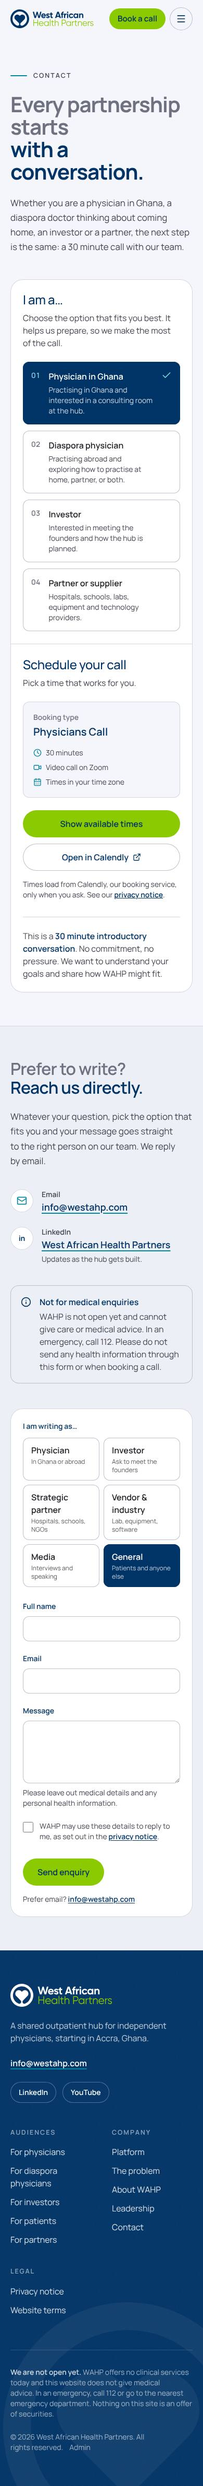
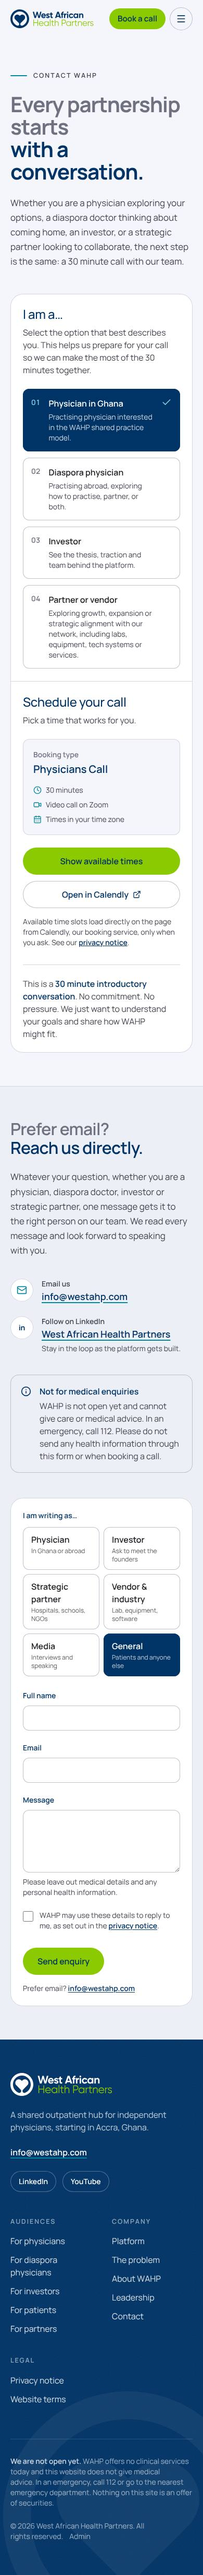
Copy: finish the older build's wording pass (75.7% measured)
Targeted edits on Home, Physicians, Diaspora, Investors and the booking
card so the eight main pages reach about 75% of their words from the
older build (26% before), measured sentence by sentence. Planned
services still plans, emigration line kept as WAHP's view, banned
claims still out. Docs record the measure, what was left out and three
lines for the owner to check. Screenshots refreshed; layout unchanged.

Claude-Session: https://claude.ai/code/session_01Gg6TP4sXwQchVWe3LbXuH5

Changed region(s): [[0.0, 0.0, 1.0, 0.9945]]

diff --git a/src/app/(site)/physicians/page.tsx b/src/app/(site)/physicians/page.tsx
@@ -35,7 +35,7 @@ const offer = [
   },
   {
     title: "Your practice. Your patients. Your future.",
-    body: "Your patients stay your patients and you make the clinical decisions. Commit less capital to setup, spend less time managing operations and keep more of your attention on practice growth.",
+    body: "Your patients stay your patients and you make the clinical decisions. Commit less capital to setup. Spend less time managing operations. Keep more of your attention on patients and practice growth.",
   },
 ];
 
@@ -174,9 +174,7 @@ export default function PhysiciansPage() {
             {approvedClaim("traction-lois") && (
               <div className="reveal mt-10 rounded-card bg-white p-6 ring-1 ring-inset ring-smoke">
                 <p className="text-headline font-semibold text-navy">20</p>
-                <p className="mt-1 text-arsenic">
-                  physicians have already signed letters of intent to practise at the first WAHP hub in Accra.
-                </p>
+                <p className="mt-1 text-arsenic">physicians have already signed letters of intent with WAHP.</p>
               </div>
             )}
           </div>

diff --git a/src/app/(site)/page.tsx b/src/app/(site)/page.tsx
@@ -266,9 +266,9 @@ export default function HomePage() {
             <Eyebrow>The patient experience</Eyebrow>
             <SplitHeading id="lobby-heading" lead="One building." rest="Complete care." className="mt-4" />
             <p className="mt-4 text-arsenic">
-              A patient should not have to carry the burden of a fragmented healthcare system. This is a concept of the
-              reception we are planning in Accra, where consultation, diagnostics and follow up are designed to come
-              together in one connected environment.
+              A patient should not have to carry the burden of a fragmented healthcare system. At WAHP, consultation,
+              diagnostics and follow up are designed to come together in one connected environment. This footage is a
+              concept of the reception we are planning in Accra.
             </p>
             <div className="mt-7">
               <ButtonLink href="/platform" arrow>

diff --git a/src/app/(site)/diaspora-physicians/page.tsx b/src/app/(site)/diaspora-physicians/page.tsx
@@ -132,9 +132,7 @@ export default function DiasporaPhysiciansPage() {
             {approvedClaim("traction-lois") && (
               <div className="reveal mt-10 rounded-card bg-white p-6 ring-1 ring-inset ring-smoke">
                 <p className="text-headline font-semibold text-navy">20</p>
-                <p className="mt-1 text-arsenic">
-                  physicians have signed letters of intent to practise at the first WAHP hub in Accra.
-                </p>
+                <p className="mt-1 text-arsenic">physicians have signed letters of intent to practise at WAHP.</p>
               </div>
             )}
           </div>

diff --git a/src/app/(site)/investors/page.tsx b/src/app/(site)/investors/page.tsx
@@ -305,8 +305,7 @@ export default function InvestorsPage() {
 
       <BookCallSection call="investor" lead="Connect with our team." rest="Book a 30 minute call." tone="white">
         <p>
-          See the thesis, traction and team, and how WAHP plans to validate first and scale with discipline. Prefer to
-          write?{" "}
+          See the thesis, traction and team behind the platform. Prefer to write?{" "}
           <a
             href="#introduction"
             className="font-semibold text-navy underline decoration-teal decoration-2 underline-offset-4"

diff --git a/src/components/sections/audience-paths.tsx b/src/components/sections/audience-paths.tsx
@@ -43,7 +43,7 @@ const paths: {
   {
     title: "Partners",
     image: "partnersPresentation",
-    body: "Hospitals, labs, suppliers and health organisations exploring growth, expansion or strategic alignment with WAHP.",
+    body: "Exploring growth, expansion or strategic alignment with our network: hospitals, labs, suppliers and health organisations.",
     cta: "Discuss partnership",
     href: "/contact?type=partnership#schedule",
     accent: { bar: "bg-teal", mark: "text-teal" },

diff --git a/src/components/forms/call-booking.tsx b/src/components/forms/call-booking.tsx
@@ -95,7 +95,8 @@ export function BookingPanel({
           </a>
         ) : (
           <>
-            Available time slots load from Calendly, our booking service, only when you ask. See our{" "}
+            Available time slots load directly on the page from Calendly, our booking service, only when you ask. See
+            our{" "}
             <Link href="/privacy#booking" className="font-semibold text-navy underline">
               privacy notice
             </Link>

diff --git a/src/content/site.ts b/src/content/site.ts
@@ -52,7 +52,7 @@ export const callTypes: CallType[] = approvedClaim("scheduling-links")
       {
         id: "investor",
         label: "Investor",
-        hint: "Exploring the thesis, traction, and team behind WAHP.",
+        hint: "See the thesis, traction and team behind the platform.",
         event: "Investors Call",
         href: "https://calendly.com/westahp-info/investor-call",
       },

diff --git a/docs/IMPLEMENTATION_LOG.md b/docs/IMPLEMENTATION_LOG.md
@@ -337,3 +337,11 @@ Both redrawn as inline SVG after the owner's mockups, so they stay sharp, keep t
 
 - At the owner's request the "Who may invest" banner is the photo of a young man and woman with a laptop and coffee (`team-laptop-celebration.webp`, the photo that sat above the introduction before), instead of the older build's lobby banner, which is removed from the repo. 16:9 on phones and 2:1 from tablet up, at most 896px wide, framed to keep both faces and the coffee cup. The file is only 678px wide, so the banner is kept narrower than the page to limit enlargement; a larger original would sharpen it.
 
+## 6 Nov 2026, copy rewritten in the older build's wording (about 75%)
+
+- At the owner's request the visible copy of Home, Platform, The Problem, Physicians, Diaspora, Investors, About and Contact now follows the older WordPress build's wording, with the design unchanged (same sections, components, images, links and markers). Privacy, Terms, Patients and the Leadership bios have no older equivalent and were not changed.
+- **Measured** by comparing each sentence on the new pages with the older build's text (lowercased, UK and US spellings treated as equal; a sentence counts when it is 60% or more similar to an old one, weighted by words): **75.7%** of the words on these eight pages now come from the older build (26% before). By page: The Problem 95%, About 88%, Platform 80%, Investors 78%, Home 74%, Diaspora 71%, Contact 71%, Physicians 64%. What remains is mostly text with no older equivalent that has to stay: the enquiry forms and consent line, the medical and emergency notices, the investor notice, licensing and "planned" FAQ answers, statistics sources and the stage markers.
+- **The rules still applied** (old lines left out or recast): no "co-working" (now "shared clinical suites" / "shared practice model"); planned services stay plans ("immediate access to … lab, imaging", "same-day results", "within the same facility", "results flow digitally" recast or dropped); unsupported claims stay out (72%, "WHO target 15%", 95% overhead, 24/7, "zero buildout", "hundreds of thousands of dollars", "hours, not weeks", "high margin", "pays for itself", "Institutions in discussion", the $800,000 raise and EBITDA, "Rule 506(c) offering", "Invest in…"). The 20 minute call stays 30 minutes. The emigration line stays WAHP's view ("We believe it is not because they want to leave"). UK spelling, no hyphens or dashes, sentence case.
+- **For the owner to check:** the Physicians heading "Lower overhead. More control. Greater potential." (from the older build; a promise without a figure); the About mission now ends "to practise at their highest level, at home" (was "at their best"; compare with the One-Pager); the Investors hero "Building the infrastructure for Africa's next healthcare revolution" (from the deck).
+- Test-bound labels kept: "Equipped clinical suites", "Integrated diagnostic laboratory" (platform tabs test) and the enquiry type "Strategic partner" (the partner call type is "Partner or vendor").
+

diff --git a/docs/CONTENT_APPROVAL.md b/docs/CONTENT_APPROVAL.md
@@ -61,6 +61,8 @@ The decisions below block or shape public launch. The machine-readable register 
 | Canonical domain: westahp.com vs westafricanhealthpartners.com | UI doc vs blueprint | `NEXT_PUBLIC_SITE_URL` defaults to westahp.com. Confirm |
 | Instagram / X | Brand guide mock-ups | Not used. No confirmed handles; blueprint says no X |
 
+| Site copy in the older build's wording (6 Nov 2026, owner request) | Older WordPress build, all pages | About 75% of the words on Home, Platform, The Problem, Physicians, Diaspora, Investors, About and Contact now come from it (see `IMPLEMENTATION_LOG.md`). **Please check:** Physicians heading "Lower overhead. More control. Greater potential."; About mission ending "at their highest level, at home"; Investors hero "Building the infrastructure for Africa's next healthcare revolution" |
+
 ## C. Confidential material deliberately excluded
 
 Fundraising targets, valuation, use of funds, projections, physician LOIs and names, survey responses, vendor, architect and lab-partner names, competitor names, candidate neighbourhoods and lease terms, data-room documents, and personnel changes. None of this appears in the repository or on the site.
